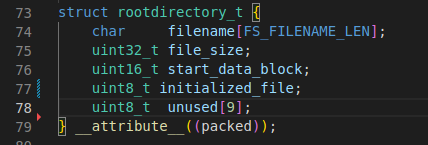
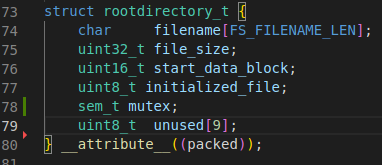
mutex for write

diff --git a/libuthread/fs.c b/libuthread/fs.c
@@ -12,7 +12,6 @@
 
 char prefix_important[] = "lock";
 sem_t create_mutex;
-sem_t open_mutex;
 
 // Very nicely display "Function Source of error: the error message"
 #define fs_error(fmt, ...) \
@@ -75,6 +74,7 @@ struct rootdirectory_t {
 	uint32_t file_size;
 	uint16_t start_data_block;
 	uint8_t initialized_file;
+	sem_t mutex;
 	uint8_t  unused[9];
   //TODO: (PART1)
   //add a uint8_t field to indicate initialized file.
@@ -163,7 +163,6 @@ int fs_mount(const char *diskname) {
 	}
         
 	sem_init(&create_mutex, 0, 1);
-	sem_init(&open_mutex, 0, 1);
 
 	return 0;
 }
@@ -264,6 +263,7 @@ int fs_create(const char *filename) {
 			root_dir_block[i].file_size     = 0;
 			root_dir_block[i].start_data_block = EOC;
 			root_dir_block[i].initialized_file = 0;
+			sem_init(&root_dir_block[i].mutex);
 
    			sem_post(&create_mutex);
 
@@ -354,21 +354,11 @@ int fs_open(const char *filename) {
   //best we can do it to just not let two people open the same file (no. we are not lazy)
   //don't forget to lock!
 
-	sem_wait(&open_mutex);
-
-	if (is_open(filename)){
-		fs_error("the file is already open.\n");
-		sem_post(&open_mutex);
-        return -1;
-	}
-
 	fd_table[fd].is_used    = true;
 	fd_table[fd].file_index = file_index;
 	fd_table[fd].offset     = 0;
 	
 	strcpy(fd_table[fd].file_name, filename); 
-
-	sem_post(&open_mutex);
 
   return fd;
 }
@@ -496,13 +486,11 @@ int fs_write(int fd, void *buf, size_t count) {
 
 	struct rootdirectory_t *the_dir = &root_dir_block[file_index];	
 
-  //TODO: (PART1)
-  //check if filename begins with "lock"
-  //if so, check if the file is initialized before using the new field
-  //if so, throw_error and exit
+	sem_wait(the_dir->mutex);
 
 	if (startswith(file_name, prefix_important) && the_dir->initialized_file == 1){
 		fs_error("important files cannot be editted [%s] \n", file_name);
+		sem_post(the_dir->mutex);
 		return -1;
 	}
 
@@ -650,6 +638,8 @@ int fs_write(int fd, void *buf, size_t count) {
 	fd_table[fd].offset += total_byte_written;
 
 	the_dir->initialized_file = 1;
+
+	sem_post(the_dir->mutex);
 
 	return total_byte_written;
 }
